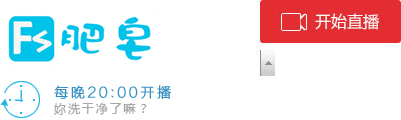
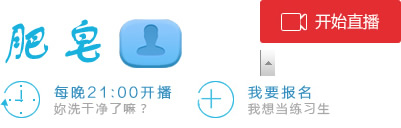
bug fix

diff --git a/web/js/registerLogin.js b/web/js/registerLogin.js
@@ -179,6 +179,9 @@ define('registerLogin',['user', 'rsa', 'layer', 'common', 'validate'], function(
 
     //注册弹窗
     exports.showRegisterPanel = function() {
+
+        _clear_auto_complete();
+
         var layer_id = $.layer({
                 type : 1,
                 title : false,
@@ -213,11 +216,29 @@ define('registerLogin',['user', 'rsa', 'layer', 'common', 'validate'], function(
     $(".overlay-loginBtn").click(function(){
         $("#overlay-login").css({"display":"block"});
         $("#overlay-reg").css({"display":"none"});
+
+        //表单错误tips处理
+        for (var k in register_tips_ids) {
+            layer.close(register_tips_ids[k]);
+            delete register_tips_ids[k];
+        };
+
+
         return false; 
     });
     $(".overlay-regBtn").click(function(){
+
+        _clear_auto_complete();
+
         $("#overlay-reg").css({"display":"block"});
-        $("#overlay-login").css({"display":"none"});  
+        $("#overlay-login").css({"display":"none"});
+
+        //表单错误tips处理
+        for (var k in login_tips_ids) {
+            layer.close(login_tips_ids[k]);
+            delete login_tips_ids[k];
+        };
+
         return false;
     });
 
@@ -230,7 +251,13 @@ define('registerLogin',['user', 'rsa', 'layer', 'common', 'validate'], function(
             layer.close(login_tips_ids[i]);
             delete login_tips_ids[i];
         }
-        layer.close($('#overlay-cont').attr('layer_id'))
+        layer.close($('#overlay-cont').attr('layer_id'));
+        //清空
+        $('#register-form input').val('');
+        $('#register-form select[name=age]').val(21);
+        $('#register-form select[name=height]').val(178);
+        $('#register-form select[name=weight]').val(63);
+        $('#login-form input').val('');
     })
 
     function _show_error_tips(message, dom, tips_ids) {
@@ -256,5 +283,14 @@ define('registerLogin',['user', 'rsa', 'layer', 'common', 'validate'], function(
         delete tips_ids[name];
     }
 
+    function _clear_auto_complete() {
+        if (
+            $('#register-form input[name=username]').val() == $('#login-form input[name=username]').val() &&
+            $('#register-form input[name=password]').val() == $('#login-form input[name=password]').val()
+        ) {
+            $('#register-form input[name=username]').val('');
+            $('#register-form input[name=password]').val('');
+        }
+    }
 })
 

diff --git a/web/css/default_v4.css b/web/css/default_v4.css
@@ -96,12 +96,13 @@ select {padding:5px;border:#e0e0e0 1px solid;}
 .topbar li.edit {width:39px;cursor:pointer;position:relative;z-index:99;}
 .topbar li.edit em {background:url(i4.gif) center center no-repeat;position:absolute;z-index:99;}
 .topbar li.edit span.editBg {width:39px;height:34px;background:url(editBg.gif) left bottom no-repeat;display:none;position:absolute;z-index:99;}
-.topbar li.edit .editCont {padding:10px 0;width:260px;border:#ddd 1px solid;background:#fff;position:absolute;top:33px;right:0;_right:-1px;z-index:98;display:none;}
+.topbar li.edit .editCont {padding:10px 0 0 0;width:260px;border:#ddd 1px solid;background:#fff;position:absolute;top:33px;right:0;_right:-1px;z-index:98;display:none;}
 .topbar li.edit .editInner {width:220px;}
 .topbar li.edit .editInner span {padding:10px 0;color:#999;display:block;}
 .topbar li.edit .editInner span b {font-size:16px;color:#4096c5;}
 .topbar li.edit .editInner span input.fi-nickname {padding:2px 5px;height:22px;line-height:22px;border:#e2e2e2 1px solid;-webkit-border-radius:2px;-moz-border-radius:2px;border-radius:2px;}
 .topbar li.edit .editInner span.editBtn {margin-top:9px;padding:15px 0;border-top:#E2E2E2 1px solid;text-align:center;}
+.editNotice {padding:10px;font-weight:bold;font-size:14px;color:#E42D31;text-align:center;background:#f5f5f5;border-top:#ddd 1px solid;}
 .btn-confirm,.btn-cancel {margin:0 11px;width:68px;height:31px;}
 .btn-confirm {background:url(btn-confirm.gif);}
 .btn-cancel {background:url(btn-cancel.gif);}
@@ -134,6 +135,7 @@ select {padding:5px;border:#e0e0e0 1px solid;}
 .top-column2 {height:90px;}
 .logo {width:250px;height:80px;background:url(main.jpg);display:block;top:5px;left:0;}
 .topTime {width:180px;height:40px;background:url(main.jpg) 0 -80px;top:25px;right:10px;}
+.topJoin {width:144px;height:40px;background:url(main.jpg) -190px -80px;top:25px;right:240px;}
 .menuOuter {height:40px;background:#23B6E2;border-top:#23b6e2 2px solid;border-bottom:#5ca7dc 2px solid;}
 .menuList a {float:left;padding:0 20px;height:40px;font-size:16px;color:#fff;line-height:40px;display:block;}
 .menuList a.cur,.menuList a:hover {font-weight:bold;background:#86CEE6;text-decoration:none;}

diff --git a/web/js/step.js b/web/js/step.js
@@ -31,8 +31,7 @@ define(['layer', 'validate', 'registerLogin'], function(require) {
             height : 'required',
             id_card : {
                 required : true,
-                rangelength : [18,18],
-                number : true
+                rangelength : [18,18]
             },
             qq : {
                 required : true,
@@ -56,8 +55,7 @@ define(['layer', 'validate', 'registerLogin'], function(require) {
             height : '身高不能为空',
             id_card : {
                 required : '身份证号码不能为空',
-                rangelength : '身份证号码必须为18位',
-                number : '身份证号码不正确'
+                rangelength : '身份证号码必须为18位'
             },
             qq : {
                 required : 'QQ号码不能为空',

diff --git a/web/js/head.js b/web/js/head.js
@@ -165,7 +165,7 @@ define(['user', 'registerLogin', 'plupload', 'jcrop'], function(require) {
                     setTimeout(function() {location.reload();}, 3000);
                 }                    
                 else {
-                    layer.alert('头像设置失败');
+                    layer.alert(resp.msg);
                 }
                
             }
@@ -185,7 +185,7 @@ define(['user', 'registerLogin', 'plupload', 'jcrop'], function(require) {
             data : {nickname : nickname},
             success : function(resp) {
                 if (resp.errno) {
-                    layer.alert('更新昵称失败');
+                    layer.alert(resp.msg);
                     return;
                 };
                 layer.msg('昵称更新成功', 3, 1);

diff --git a/web/protected/views/layouts/common.php b/web/protected/views/layouts/common.php
@@ -6,7 +6,7 @@
 <meta content="帅哥,靓仔,校草,演艺圈,经纪公司,演艺经纪,互联网,O2O" name="Keywords" />
 <meta property="qc:admins" content="7261517777656512176375" />
 <link href="/css/webmag-1.2.css" rel="stylesheet" type="text/css" />
-<link href="/css/default_v4.css?v=20141011" rel="stylesheet" type="text/css" />
+<link href="/css/default_v4.css?v=20141017" rel="stylesheet" type="text/css" />
 <link href="/css/jquery.Jcrop.min.css" rel="stylesheet" type="text/css" />
 <script type='text/javascript' src='/js/jquery.min.js'></script>
 <script type='text/javascript' src="/js/sea.min.js"></script>
@@ -90,6 +90,7 @@ with(document)0[(getElementsByTagName('head')[0]||body).appendChild(createElemen
                 <span>修改昵称： <input type="text" class="fi-nickname" id="newNickname"></span>
                 <span class="editBtn"><input type="button" class="btns btn-confirm" id="doEditNickname" value="确定">  <input type="button" class="btns btn-cancel" id="cancelEditNickname" value="取消"></span>
               </div>
+              <div class="editNotice">注：修改后，原昵称有可能被抢注</div>
             </div>
           </li>
          <li class="chong ml5 logined" style="display:none;"><a href="/recharge/center">充值</a></li>
@@ -102,6 +103,7 @@ with(document)0[(getElementsByTagName('head')[0]||body).appendChild(createElemen
     <div class="top-column2">
       <div class="wrap posR">
         <a href="/" class="logo posA"></a>
+        <a href="/recruitment/step1" class="topJoin posA" title="我要当练习生"></a>
         <div class="topTime posA"></div>
       </div>
     </div>

diff --git a/web/protected/controllers/UserController.php b/web/protected/controllers/UserController.php
@@ -42,8 +42,10 @@ class UserController extends Controller
 
 		Yii::log(json_encode($access_token), CLogger::LEVEL_INFO);
 
+		$new = false;
 		$user = User::model()->find('qq_openid=:open_id', array(':open_id' => $open_id));
 		if($user === null) {//新用户
+			$new = true;
 			$user = new User();
 			$userInfo = $qc->get_user_info();
 			$user->username = QQ_LOGIN_PRE . $open_id;
@@ -72,6 +74,10 @@ class UserController extends Controller
 		$user->last_login_time = Date('Y-m-d H:i:s');
 		$user->setScenario('qqLogin');
 		if($user->save()) {
+			if ($new) {//新用户更新昵称防止重复
+				$user->nickname = $user->nickname . $user->id;
+				$user->save();
+			}
 			$_SESSION['uid'] = $user->id;
 			$_SESSION['nickname'] = $user->nickname;
 			$_SESSION['sex'] = $user->sex;
@@ -210,7 +216,7 @@ class UserController extends Controller
 		$this->render('ucenter', array('userInfo' => $userInfo));
 	}
 
-	public function actionLogout($callback) {
+	public function actionLogout($callback = '/') {
 		@session_start();
 		session_destroy();
 		setcookie('uid', 0, time() - 1, '/', DOMAIN);
@@ -346,6 +352,10 @@ class UserController extends Controller
 		}
 		if ($scene == 'nickname') {
 			$data['nickname'] = $form->nickname;
+			//查询昵称是否存在
+			if (User::model()->find('nickname=:nickname', array(':nickname' => $form->nickname))) {
+				return ToolUtils::ajaxOut(804, '该昵称已经存在');
+			}
 		}
 		else if ($scene == 'password'){
 			$data['password'] = $form->password;

diff --git a/web/protected/views/recharge/recharge.php b/web/protected/views/recharge/recharge.php
@@ -1,11 +1,8 @@
   <script>
   $(document.body).ready(function() {
+      var logined = true;
       <?php if(!$userInfo):?>
-
-      seajs.use('registerLogin', function(r) {
-          r.showLoginPanel();
-      })
-
+        logined = false;
       <?php endif?>  
 
       $('#other-amount').focus(function() {
@@ -13,6 +10,13 @@
       })
 
       $('#do-recharge').click(function() {
+          if (!logined) {
+              seajs.use('registerLogin', function(r) {
+                r.showLoginPanel();
+              })
+              return false;
+          }
+
           if ($('input[name=amount]:checked').val() == 'certain') {
               var money = $('#certain-amount').val();
           }
@@ -24,6 +28,11 @@
               layer.msg('充值金额非法');
               return false;
           }
+
+          $("#overlay-mask").height($(document).height());
+          $("#overlay-mask").fadeIn();
+          $("#overlay-pay").fadeIn();
+
           $(this).attr('href', '/recharge/alipay/money/' + money);
           return true;
       })
@@ -46,11 +55,6 @@
         'left':(($(document).width())-500)/2,
         'top':(($(window).height())-280)/2
     });
-    $("#btnPay").click(function(){
-        $("#overlay-mask").height($(document).height());
-        $("#overlay-mask").fadeIn();
-        $("#overlay-pay").fadeIn();
-    })
     $(".close2").click(function(){
         $("#overlay-mask").fadeOut();
         $("#overlay-pay").fadeOut();  

diff --git a/web/protected/widgets/views/registerLogin.php b/web/protected/widgets/views/registerLogin.php
@@ -13,7 +13,7 @@ registerLogin.qqLoginUrl = '<?=CUser::getQQLoginUrl();?>';
       <form id="register-form">
       <table cellpadding="0" cellspacing="0" width="100%" border="0" id="register-area">
         <tr>
-          <td><input name="username" type="text" placeholder="用户名/手机/邮箱" class="fi-txt"></td>
+          <td><input name="username" type="text" placeholder="用户名/手机/邮箱" class="fi-txt" autocomplete="off"></td>
         </tr>
         <tr>
           <td>
@@ -41,7 +41,7 @@ registerLogin.qqLoginUrl = '<?=CUser::getQQLoginUrl();?>';
           </td>
         </tr>
         <tr>
-          <td><input name="password" type="password" placeholder="密码" class="fi-txt"></td>
+          <td><input name="password" type="password" placeholder="密码" class="fi-txt" autocomplete="off"></td>
         </tr>
         <tr>
           <td><input name="passwordRepeat" type="password" placeholder="确认密码" class="fi-txt"></td>
@@ -53,7 +53,7 @@ registerLogin.qqLoginUrl = '<?=CUser::getQQLoginUrl();?>';
           <td id="agree-td"><label><input type="checkbox" id="register-agree" checked name="agree"> 我已阅读并同意</label><a href="#">《网站协议》</a></td>
         </tr>
         <tr>
-          <td><input type="submit" class="btns btn-1" value="同意注册"></td>
+          <td><input type="submit" class="btns btn-1" value="立即注册"></td>
         </tr>
       </table>
       </form>

diff --git a/web/protected/models/Recruitment.php b/web/protected/models/Recruitment.php
@@ -53,12 +53,12 @@ class Recruitment extends CActiveRecord
 			array('images', 'required', 'on' => 'step3'),
 
 			array('step', 'numerical', 'integerOnly'=>true),
-			array('height, weight, age, id_card, mobile, qq', 'numerical', 'message' => '{attribute}不合法'),
+			array('height, weight, age, mobile, qq', 'numerical', 'message' => '{attribute}不合法'),
 			array('uid, age', 'length', 'max'=>10, 'message' => '{attribute}超长'),
 			array('name, qq, email', 'length', 'max'=>255, 'message' => '{attribute}超长'),
 			array('id_card', 'length', 'is'=>18, 'message' => '{attribute}必须为18位'),
 			array('mobile', 'length', 'is'=>11, 'message' => '{attribute}必须位11位'),
-			array('email', 'email'),
+			array('email', 'email', 'message' => '邮箱格式不正确'),
 			// The following rule is used by search().
 			// Please remove those attributes that should not be searched.
 			array('id, uid, name, age, height, weight, id_card, qq, email, mobile, images, step, create_time, update_time', 'safe', 'on'=>'search'),

diff --git a/web/protected/controllers/RecruitmentController.php b/web/protected/controllers/RecruitmentController.php
@@ -68,7 +68,7 @@ class RecruitmentController extends Controller {
             $rec->step = max($rec->step, 2);
             $rec->update_time = date('Y-m-d H:i:s');
              if (!$rec->save()) {
-                ToolUtils::ajaxOut(102, '', $rec->getErrors());
+                return ToolUtils::ajaxOut(102, current($rec->getErrors()), $rec->getErrors());
             }
         }
         else if ($step == 3) {
